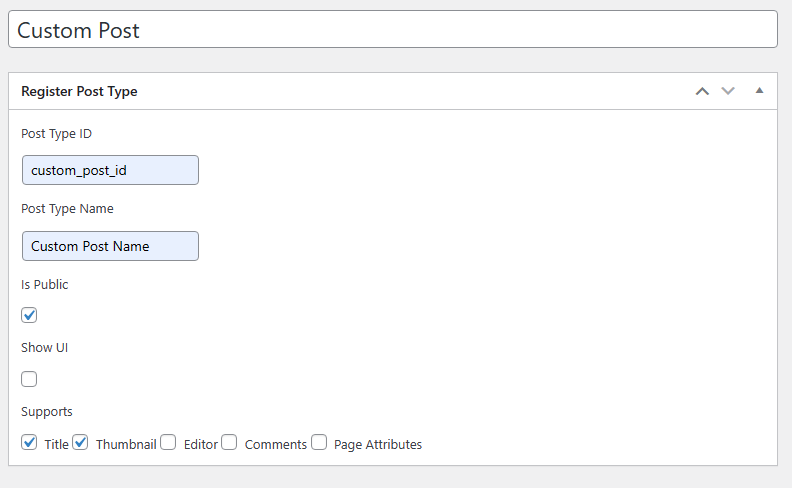
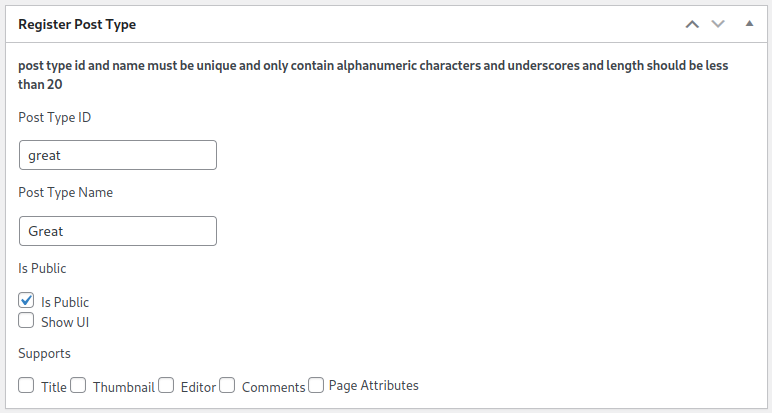
fixed all bugs from previous response

Changed region(s): [[0.0, 0.1453, 0.9948, 0.9588], [0.0, 0.0, 0.9948, 0.1162], [0.0, 0.9879, 0.9948, 1.0]]

diff --git a/inc/custom-metaboxes.inc.php b/inc/custom-metaboxes.inc.php
@@ -4,31 +4,18 @@ if(!defined('ABSPATH')){
     // exit if accessed directly
 }
 class KMFDCPR_METS {
-    public $name_attr;
-    public $field_type;
     public $meta_slug;
     public $meta_slug_og;
     public $meta_title;
     public $meta_id;
     
-    public function init_field($field){
-        switch ($field) {
-            case 'text':
-                return 'textField';
-                break;
-            
-            default:
-                return 'html';
-                break;
-        }
-
-    }
     public function create_metabox() {
-        add_meta_box('kmfdcpr_meta', $this->meta_title, [$this, $this->field_type], 'cpr');
+        add_meta_box('kmfdcpr_meta', $this->meta_title, [$this, 'metabox_html'], 'cpr');
     }
-    public function html(){
+    public function metabox_html(){
         wp_nonce_field(basename(__FILE__), 'kmfdcpr_meta_nonce');
       echo '
+        <p><b>'.esc_html( "post type id and name must be unique and only contain alphanumeric characters and underscores and length should be less than 20" ).'</b></p>
         <div class="'.esc_attr( "kmfdcpr-field pt" ).'">
             <p>'.esc_html( "Post Type ID" ).'</p>
             <input type="'.esc_attr( "text" ).'" id="'.esc_attr( "pt" ).'" name="'.esc_attr($this->meta_slug_og.'[cpr_id]').'" value="'.esc_attr($this->get_the_saved_value(get_the_ID(),$this->meta_slug_og,'text','cpr_id')).'" '.esc_html( "required" ).'>
@@ -82,7 +69,9 @@ class KMFDCPR_METS {
         }
         // Verify nonce.
         if (!wp_verify_nonce(sanitize_text_field($_POST['kmfdcpr_meta_nonce']), basename(__FILE__))) {
-            return;
+            // return;
+            wp_die( "Please fill up the required fields");
+
         }
         // Check if this is an autosave.
         if (defined('DOING_AUTOSAVE') && DOING_AUTOSAVE) {
@@ -96,6 +85,10 @@ class KMFDCPR_METS {
         }
         //Check if the input is not empty
         if(empty($_POST[$this->meta_slug_og]['cpr_id']) || empty($_POST[$this->meta_slug_og]['cpr_name'])){
+            return;
+        }
+        //check post id and name length and allowed character
+        if(strlen($_POST[$this->meta_slug_og]['cpr_id']) > 20 || strlen($_POST[$this->meta_slug_og]['cpr_name']) > 20 || !preg_match('/^[a-zA-Z0-9_]+$/', $_POST[$this->meta_slug_og]['cpr_id']) || !preg_match('/^[a-zA-Z0-9_]+$/', $_POST[$this->meta_slug_og]['cpr_name'])){
             return;
         }
 
@@ -153,8 +146,6 @@ class KMFDCPR_METS {
         $instance = new self();
         $instance->meta_slug = $slug.'[]';
         $instance->meta_slug_og = $slug;
-        $instance->name_attr = $data['name'];
-        $instance->field_type = $instance->init_field($data['field']);
         $instance->meta_title = $data['title'] ;
         add_action("add_meta_boxes", [$instance,'create_metabox']);
         add_action("save_post", [$instance,'save_metabox']);
@@ -168,8 +159,6 @@ if(class_exists('KMFDCPR_METS')){
   // Create a metabox
   KMFDCPR_METS::createMetabox($slug, [
     'title'     => 'Register Post Type',
-    'field' => 'html',
-    'name' => 'kmf-name'
   ] );
 
 }

diff --git a/cpr.php b/cpr.php
@@ -18,11 +18,3 @@ require_once plugin_dir_path(__FILE__)."inc/custom-post.inc.php";
 require_once plugin_dir_path(__FILE__)."inc/custom-metaboxes.inc.php";
 require_once plugin_dir_path(__FILE__)."inc/register-post-types-custom-metas.inc.php";
 require_once plugin_dir_path(__FILE__)."inc/create_post.inc.php";
-
-
-
-// including assets
-function kmfdcpr_assets(){
-	wp_enqueue_style('customstyle',plugin_dir_url(__FILE__).'assets/style.css',null,'1.0.0');
-}
-add_action("wp_enqueue_scripts",'kmfdcpr_assets');
